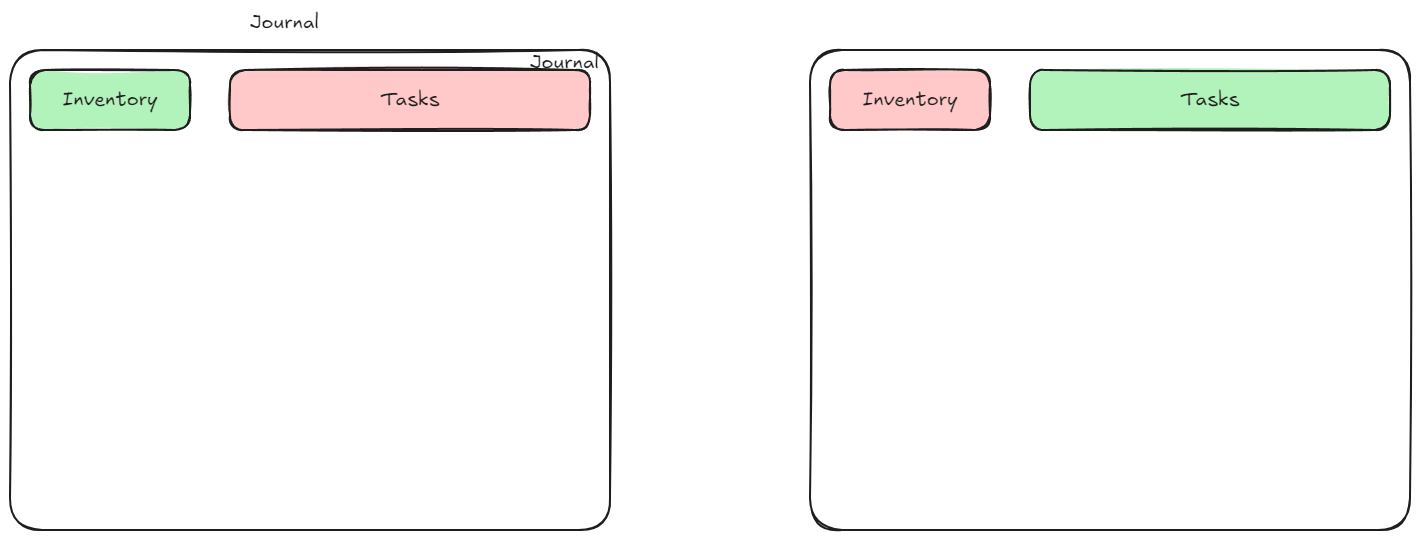
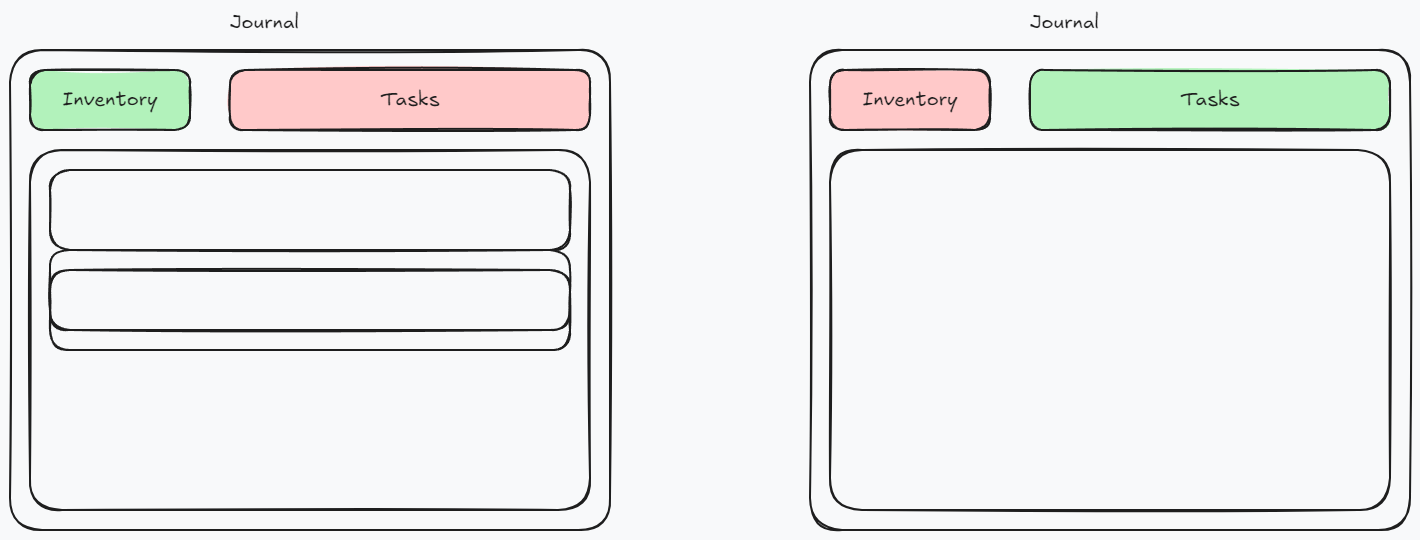
vault backup: 2024-11-26 16:17:10

diff --git a/_META/Excalidraw/Journal Breakdown.md b/_META/Excalidraw/Journal Breakdown.md
@@ -21,6 +21,8 @@ Tasks ^lRBy6smh
 
 Journal ^CqsGPm5h
 
+Scrollbar ^wDbMfmCE
+
 %%
 ## Drawing
 ```compressed-json
@@ -28,48 +30,70 @@ N4KAkARALgngDgUwgLgAQQQDwMYEMA2AlgCYBOuA7hADTgQBuCpAzoQPYB2KqATLZMzYBXUtiRoIACyh
 
[1 lines of base64/hex data omitted]
 
[2 lines of base64/hex data omitted]
 
[2 lines of base64/hex data omitted]
 
[2 lines of base64/hex data omitted]
 
[2 lines of base64/hex data omitted]
 
[2 lines of base64/hex data omitted]
 
[2 lines of base64/hex data omitted]
 
[2 lines of base64/hex data omitted]
 
[2 lines of base64/hex data omitted]
 
[2 lines of base64/hex data omitted]
 
[2 lines of base64/hex data omitted]
 
[2 lines of base64/hex data omitted]
 
[2 lines of base64/hex data omitted]
 
[2 lines of base64/hex data omitted]
 
[2 lines of base64/hex data omitted]
 
[2 lines of base64/hex data omitted]
 
[2 lines of base64/hex data omitted]
 
[2 lines of base64/hex data omitted]
 
[2 lines of base64/hex data omitted]
 
[2 lines of base64/hex data omitted]
 
[2 lines of base64/hex data omitted]
 
[2 lines of base64/hex data omitted]
 
[2 lines of base64/hex data omitted]
+
[1 lines of base64/hex data omitted]
+
[1 lines of base64/hex data omitted]
+
[1 lines of base64/hex data omitted]
+
[1 lines of base64/hex data omitted]
+
[1 lines of base64/hex data omitted]
+
[1 lines of base64/hex data omitted]
+
[1 lines of base64/hex data omitted]
+
[1 lines of base64/hex data omitted]
+
[1 lines of base64/hex data omitted]
+
[1 lines of base64/hex data omitted]
+
+ALiZN6Q4QOhgfDDBAA==
 ```
 %%
